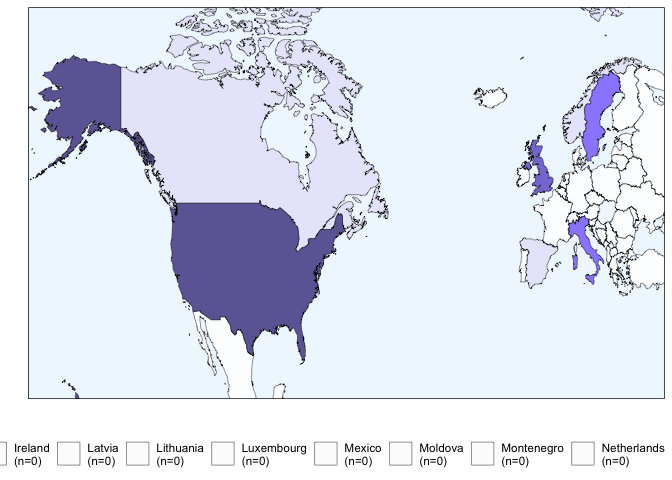
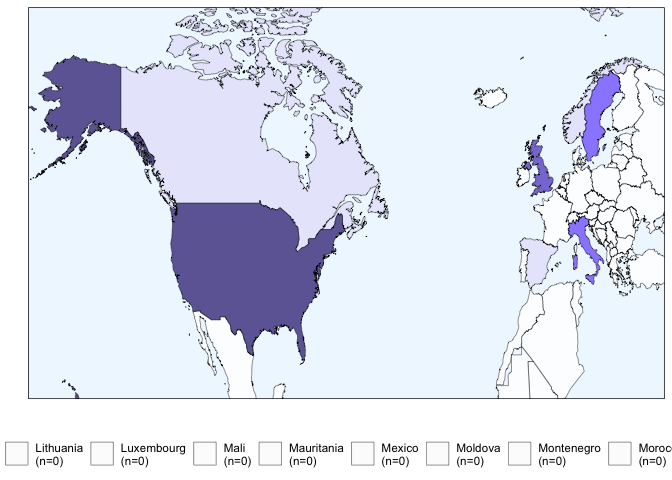
added westernmost african countries to choropleth

diff --git a/markdowns/visuals.md b/markdowns/visuals.md
@@ -85,13 +85,13 @@ ggplot(times.series,aes(x=year,y=cumul.freq,fill=fill)) +
 ## Looking at geospatial variation across studies
 
 ``` r
-intervention_map <- map_data("world", region=c("Albania","Austria","Belarus","Belgium","Bosnia and Herzegovina","Bulgaria","Croatia","Czech Republic","Denmark","Estonia","Finland","France","Germany","Greece","Iceland","Ireland","Latvia","Lithuania","Luxembourg","Mexico","Moldova","Montenegro","Netherlands","North Macedonia","Poland","Portugal","Romania","Russia","Serbia","Slovenia","Switzerland","Turkey","Ukraine","Canada","Norway","Spain","Italy","Sweden","UK","USA"))
+intervention_map <- map_data("world", region=c("Albania","Algeria","Austria","Belarus","Belgium","Bosnia and Herzegovina","Bulgaria","Croatia","Czech Republic","Denmark","Estonia","Finland","France","Germany","Greece","Hungary","Iceland","Ireland","Latvia","Lithuania","Luxembourg","Mali","Mauritania","Mexico","Moldova","Montenegro","Morocco","Netherlands","North Macedonia","Poland","Portugal","Romania","Russia","Serbia","Slovakia","Slovenia","Switzerland","Tunisia","Turkey","Ukraine","Canada","Norway","Spain","Italy","Sweden","UK","USA"))
 ```
 
 ``` r
 ggplot(intervention_map,aes(x=long,y=lat,group=group,fill=region)) +
   geom_polygon(color="black",size=.15,alpha=0.8) +
-  scale_fill_manual(values=c("white","white","white","white","white","white","white","white","white","white","white","white","white","white","white","white","white","white","white","white","white","white","white","white","white","white","white","white","white","white","white","white","white","lavender","lavender","lavender","slateblue1","slateblue1","slateblue","slateblue4"),limits=c("Albania","Austria","Belarus","Belgium","Bosnia and Herzegovina","Bulgaria","Croatia","Czech Republic","Denmark","Estonia","Finland","France","Germany","Greece","Iceland","Ireland","Latvia","Lithuania","Luxembourg","Mexico","Moldova","Montenegro","Netherlands","North Macedonia","Poland","Portugal","Romania","Russia","Serbia","Slovenia","Switzerland","Turkey","Ukraine","Canada","Norway","Spain","Italy","Sweden","UK","USA"),breaks=c("Albania","Austria","Belarus","Belgium","Bosnia and Herzegovina","Bulgaria","Croatia","Czech Republic","Denmark","Estonia","Finland","France","Germany","Greece","Iceland","Ireland","Latvia","Lithuania","Luxembourg","Mexico","Moldova","Montenegro","Netherlands","North Macedonia","Poland","Portugal","Romania","Russia","Serbia","Slovenia","Switzerland","Turkey","Ukraine","Canada","Norway","Spain","Italy","Sweden","UK","USA"),labels=c("Albania\n(n=0)","Austria\n(n-0)","Belarus\n(n=0)","Belgium\n(n=0)","Bosnia and Herzegovina\n(n=0)","Bulgaria\n(n=0)","Croatia\n(n=0)","Czech Republic\n(n=0)","Denmark\n(n=0)","Estonia\n(n=0)","Finland\n(n=0)","France\n(n=0)","Germany\n(n=0)","Greece\n(n=0)","Iceland\n(n=0)","Ireland\n(n=0)","Latvia\n(n=0)","Lithuania\n(n=0)","Luxembourg\n(n=0)","Mexico\n(n=0)","Moldova\n(n=0)","Montenegro\n(n=0)","Netherlands\n(n=0)","North Macedonia\n(n=0)","Poland\n(n=0)","Portugal\n(n=0)","Romania\n(n=0)","Russia\n(n=0)","Serbia\n(n=0)","Slovenia\n(n=0)","Switzerland\n(n=0)","Turkey\n(n=0)","Ukraine\n(n=0)","Canada\n(n=1)","Norway\n(n=1)","Spain\n(n=1)","Italy\n(n=3)","Sweden\n(n=3)","UK\n(n=7)","USA\n(n=15)"),guide=guide_legend(title=NULL,nrow=1)) +
+  scale_fill_manual(values=c("white","white","white","white","white","white","white","white","white","white","white","white","white","white","white","white","white","white","white","white","white","white","white","white","white","white","white","white","white","white","white","white","white","white","white","white","white","white","white","white","lavender","lavender","lavender","slateblue1","slateblue1","slateblue","slateblue4"),limits=c("Albania","Algeria","Austria","Belarus","Belgium","Bosnia and Herzegovina","Bulgaria","Croatia","Czech Republic","Denmark","Estonia","Finland","France","Germany","Greece","Hungary","Iceland","Ireland","Latvia","Lithuania","Luxembourg","Mali","Mauritania","Mexico","Moldova","Montenegro","Morocco","Netherlands","North Macedonia","Poland","Portugal","Romania","Russia","Serbia","Slovakia","Slovenia","Switzerland","Tunisia","Turkey","Ukraine","Canada","Norway","Spain","Italy","Sweden","UK","USA"),breaks=c("Albania","Algeria","Austria","Belarus","Belgium","Bosnia and Herzegovina","Bulgaria","Croatia","Czech Republic","Denmark","Estonia","Finland","France","Germany","Greece","Hungary","Iceland","Ireland","Latvia","Lithuania","Luxembourg","Mali","Mauritania","Mexico","Moldova","Montenegro","Morocco","Netherlands","North Macedonia","Poland","Portugal","Romania","Russia","Serbia","Slovakia","Slovenia","Switzerland","Tunisia","Turkey","Ukraine","Canada","Norway","Spain","Italy","Sweden","UK","USA"),labels=c("Albania\n(n=0)","Algeria\n(n=0)","Austria\n(n-0)","Belarus\n(n=0)","Belgium\n(n=0)","Bosnia and Herzegovina\n(n=0)","Bulgaria\n(n=0)","Croatia\n(n=0)","Czech Republic\n(n=0)","Denmark\n(n=0)","Estonia\n(n=0)","Finland\n(n=0)","France\n(n=0)","Germany\n(n=0)","Greece\n(n=0)","Hungary\n(n=0)","Iceland\n(n=0)","Ireland\n(n=0)","Latvia\n(n=0)","Lithuania\n(n=0)","Luxembourg\n(n=0)","Mali\n(n=0)","Mauritania\n(n=0)","Mexico\n(n=0)","Moldova\n(n=0)","Montenegro\n(n=0)","Morocco\n(n=0)","Netherlands\n(n=0)","North Macedonia\n(n=0)","Poland\n(n=0)","Portugal\n(n=0)","Romania\n(n=0)","Russia\n(n=0)","Serbia\n(n=0)","Slovakia\n(n=0)","Slovenia\n(n=0)","Switzerland\n(n=0)","Tunisia\n(n=0)","Turkey\n(n=0)","Ukraine\n(n=0)","Canada\n(n=1)","Norway\n(n=1)","Spain\n(n=1)","Italy\n(n=3)","Sweden\n(n=3)","UK\n(n=7)","USA\n(n=15)"),guide=guide_legend(title=NULL,nrow=1)) +
   xlab(" ") + 
   ylab(" ") +
   coord_cartesian(xlim=c(-162,29),ylim=c(22,76)) +
